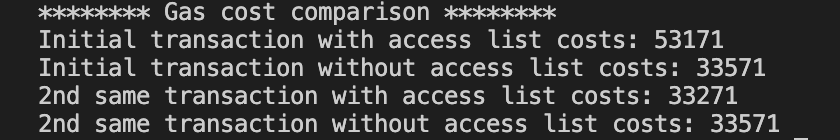
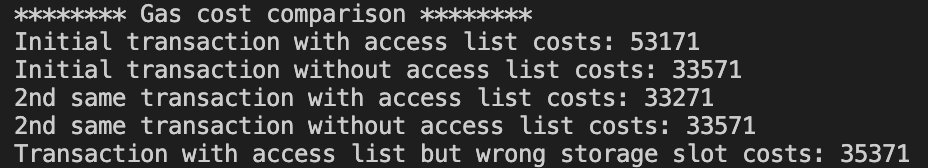
updated for important edge case

diff --git a/scripts/access.js b/scripts/access.js
@@ -32,6 +32,21 @@ async function main() {
     ],
   };
 
+  const incorrectAccess = {
+    from: user.address,
+    to: caller.address,
+    data,
+    value: 0,
+    accessList: [
+      {
+        address: oracle.address,
+        storageKeys: [
[1 lines of base64/hex data omitted]
+        ],
+      },
+    ],
+  };
+
   const classicTrx = {
     from: user.address,
     to: caller.address,
@@ -70,6 +85,14 @@ async function main() {
 
   console.log(
     `2nd same transaction without access list costs: ${classicReceipt2.gasUsed.toString()}`
+  );
+
+  const accessTrxCall3 = await user.sendTransaction(incorrectAccess);
+
+  const receipt3 = await accessTrxCall3.wait();
+
+  console.log(
+    `Transaction with access list but wrong storage slot costs: ${receipt3.gasUsed.toString()}`
   );
 }
 

diff --git a/README.md b/README.md
@@ -82,3 +82,7 @@ The access list is provided to web3.js/ethers as part of the transaction.
 ## Conclusion
 
 Access lists optimize gas costs when transactions access predictable storage across multiple contracts. By pre-declaring the addresses and slots you need, gas savings are possible.
+
+## Note
+
+If there are no cross-contract calls or if storage slots are unknown, then using access is no-brainer as it in turn cost more gas if accessed wrong storage slot.
